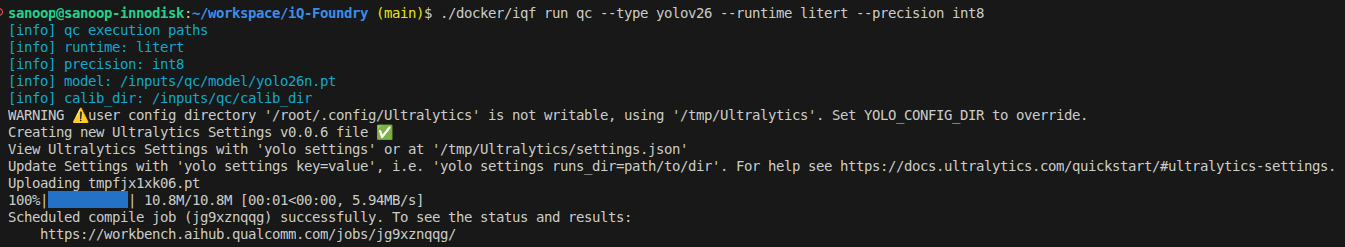
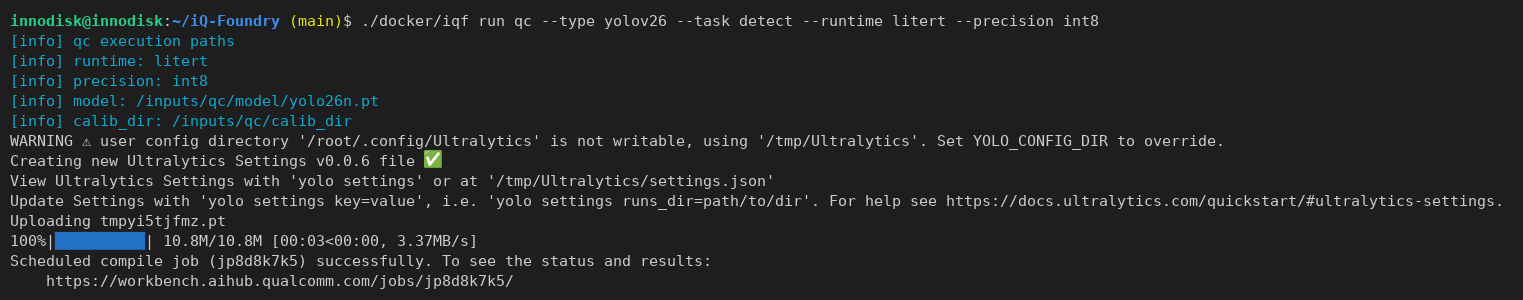
docs(tutorials): add screenshots for the detect, pose, segment and classify tutorials
- Recapture the detect screenshots, including eval in place of the old mAP output
- Add qc, eval, test and inference screenshots for pose, segment and classify
- Classify: show the portrait inference picture at width 360 and correct where
  avg_model_invoke_ms appears in the output

Changed region(s): [[0.0, 0.0283, 0.8119, 0.6235], [0.0, 0.6518, 0.9993, 0.9919]]

diff --git a/tutorials/model-deploy/cv/classify/README.md b/tutorials/model-deploy/cv/classify/README.md
@@ -171,11 +171,11 @@ Run the mode:
 ./docker/iqf run test --type resnet50 --task classify --runtime litert --precision int8 --adb
 ```
 
-This runs inference on the target and saves each picture with its predicted class. The last line of the output shows `avg_model_invoke_ms`, the average model invocation latency.
+This runs inference on the target and saves each picture with its predicted class. Near the end of the output, `avg_model_invoke_ms` shows the average model invocation latency.
 
 ![Test mode output](./fig/test-mode-output.png)
 <p align="center">
-  <img src="./fig/inference-output.png" alt="Inference output" width="640" />
+  <img src="./fig/inference-output.png" alt="Inference output" width="360" />
 </p>
 
 Output location: `out/test/classify/resnet50/resnet50_classify_inference_litert_int8_<timestamp>/`
